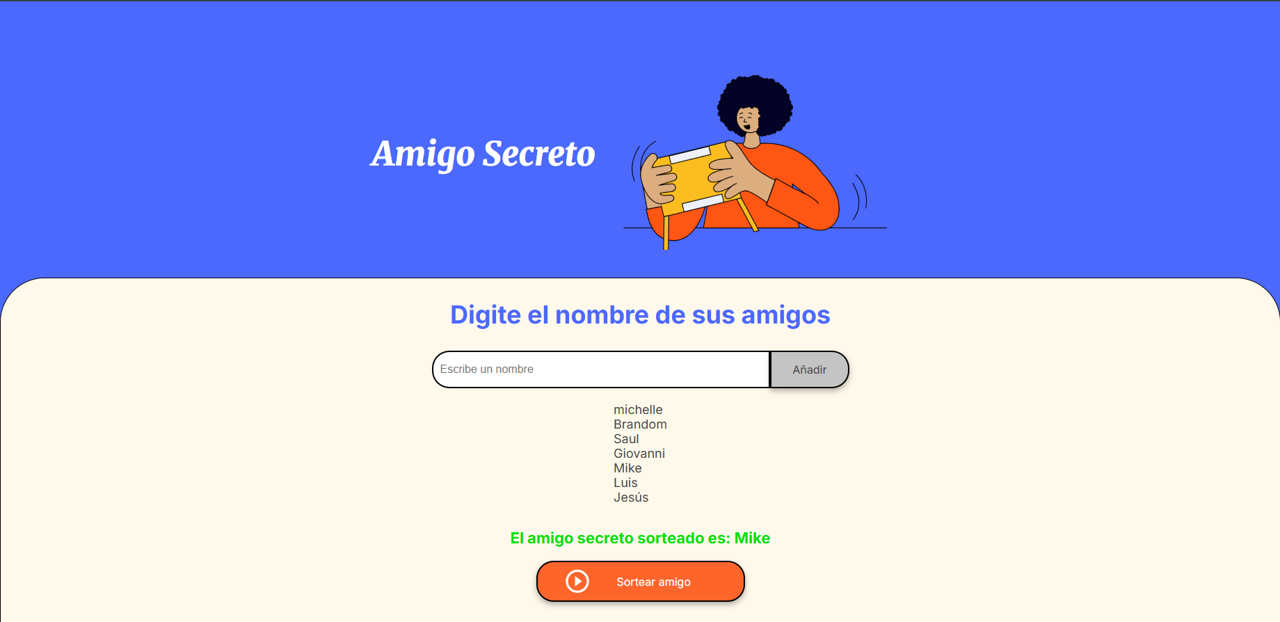
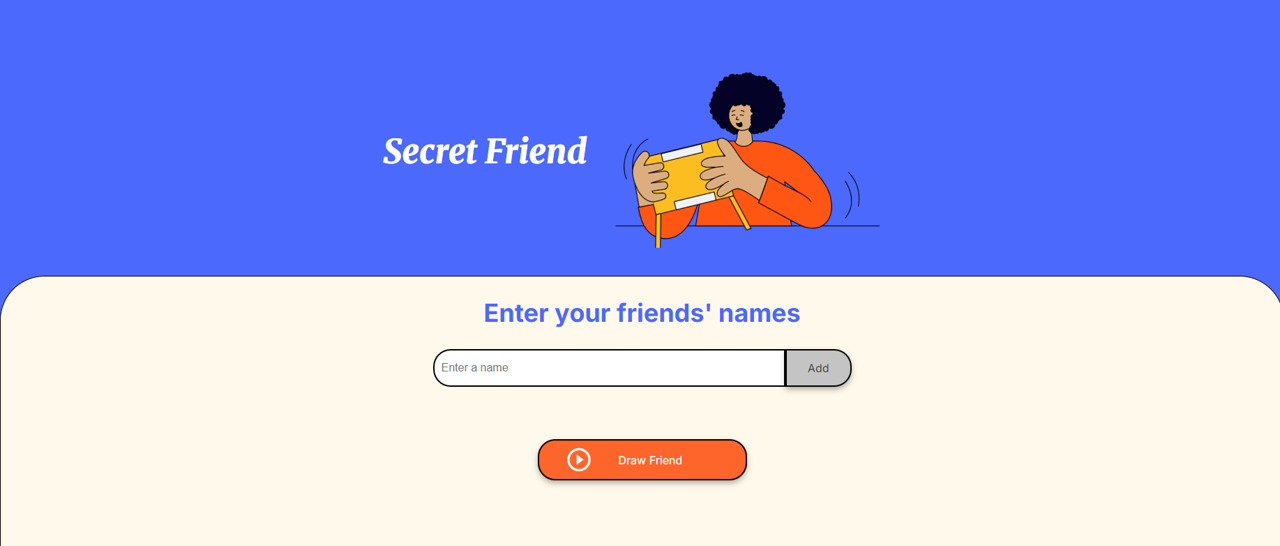
Update README

Changed region(s): [[0.0, 0.1245, 1.0, 0.5604], [0.3438, 0.5604, 0.6875, 0.9963], [0.0, 0.0, 1.0, 0.0311]]

diff --git a/README.md b/README.md
@@ -5,6 +5,18 @@
 - [🎁 **_SECRET FRIEND DRAW_** 🎁](#-secret-friend-draw-)
   - [📑 **Table of Contents**](#-table-of-contents)
   - [📂 File Structure](#-file-structure)
+  - [🖼 Page Preview](#-page-preview)
+  - [🎯 Project Goal](#-project-goal)
+  - [📚 Variable and Functions Names](#-variable-and-functions-names)
+    - [📝 **Variables**](#-variables)
+    - [🛠 **Functions**](#-functions)
+  - [✏ Renaming Variables and Functions](#-renaming-variables-and-functions)
+  - [🌿 Repository Branches](#-repository-branches)
+    - [✏ Switching Branches](#-switching-branches)
+  - [⚠ Possible Improvements](#-possible-improvements)
+  - [🌐 **Connect with Me**](#-connect-with-me)
+    - [💼 My LinkedIn](#-my-linkedin)
+  - [🛠 **Technologies Used**](#-technologies-used)
 
 ## 📂 File Structure
 ```bash
@@ -17,3 +29,95 @@
 │── style.css
 │── app.js
 └── README.md
+```
+
+## 🖼 Page Preview
+![Captura del juego](./assets/secret-friend-screenshot.png)
+
+## 🎯 Project Goal
+
+Allow users to enter participant names and run the secret friend draw.
+
+## 📚 Variable and Functions Names
+
+### 📝 **Variables**
+
+|       English         |       Spanish            |
+|-----------------------|--------------------------|
+|   friends             |    amigos                |
+|   drawnFriend         |    amigoSorteado         |
+|   minFriendsRequired  |    minimaCantidadAmigos  |
+|   name                |    nombre                |
+|   list                |    lista                 |
+|   randomIndex         |    indiceAleatorio       |
+|   resultDisplay       |    resultado             |
+
+### 🛠 **Functions**
+
+|          English          |       Spanish            |
+|---------------------------|--------------------------|
+|   addFriend ()            |    agregarAmigo ()       |
+|   focusInput ()           |    enfocarInput ()       |
+|   clearInput ()           |    limpiarCampo ()       |
+|   renderFriendList ()     |    listaDeAmigos ()      |
+|   drawFriend ()           |    sortearAmigo ()       |
+
+
+## ✏ Renaming Variables and Functions
+If you want to rename them, select the first occurrence of the word and press **ctrl + d** to select all identical matches, type the new name, and then press **esc** to exit multi-selection mode.
+
+>⚠Be careful when selecting — if a word appears in another context, it will also be changed even if it’s not the same variable or function.⚠
+
+## 🌿 Repository Branches
+
+| Branch                 | Description                                |
+|------------------------|--------------------------------------------|
+| `main`                 | Main branch, Spanish version               |
+| `dev`                  | Development branch, English version        |
+
+### ✏ Switching Branches
+1. Open the integrated terminal in Visual Studio Code or open git bash and navigate to the project using:
+   ```bash
+   cd ./challenge-amigo-secreto_esp-main
+   ```
+
+2. Make sure you are in the project folder. This will show a list of local branches. The current branch will be marked with an asterisk (*). Run the following command to see the available branches:
+   ```bash
+   git branch
+   ```
+
+3. Run the following command to switch to the English version branch:
+   ```bash
+   git checkout dev
+   ```
+   Para la version en Español:
+   ```bash
+   git checkout main
+   ```
+
+4. If the branch does not exist locally, you can create it and switch to it at the same time with:
+   ```bash
+   git checkout -b <branch-name>
+   ```
+
+5. Or, if you just want to switch to an existing branch, either dev or main:
+   ```bash
+   git switch <branch-name>
+   ```
+
+
+## ⚠ Possible Improvements
+- 🔄 Allow restarting the draw without reloading the page.
+- 🗃 Save results.
+- 🎶 Add sounds or animations.
+---
+
+## 🌐 **Connect with Me**
+### 💼 My LinkedIn
+[![LinkedIn](https://img.shields.io/badge/LinkedIn-Michelle%20Montoya-blue?style=for-the-badge&logo=linkedin)](https://www.linkedin.com/in/michelle-montoya-alvarado-792812237/)
+
+
+## 🛠 **Technologies Used**
+![JavaScript](https://img.shields.io/badge/JavaScript-ES6-yellow?style=flat-square&logo=javascript&logoColor=white)
+![HTML5](https://img.shields.io/badge/HTML5-HTML5-E34F26?style=flat-square&logo=html5&logoColor=white)
+![CSS3](https://img.shields.io/badge/CSS3-CSS3-1572B6?style=flat-square&logo=css3&logoColor=white)
